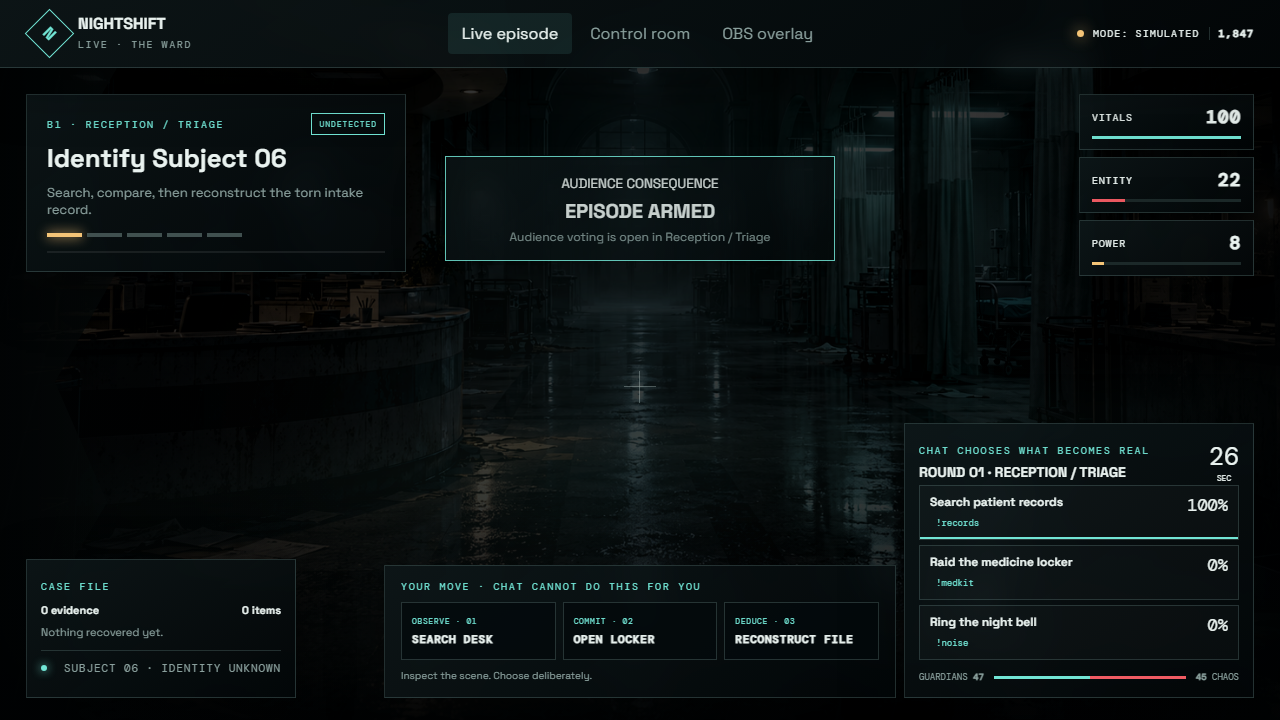
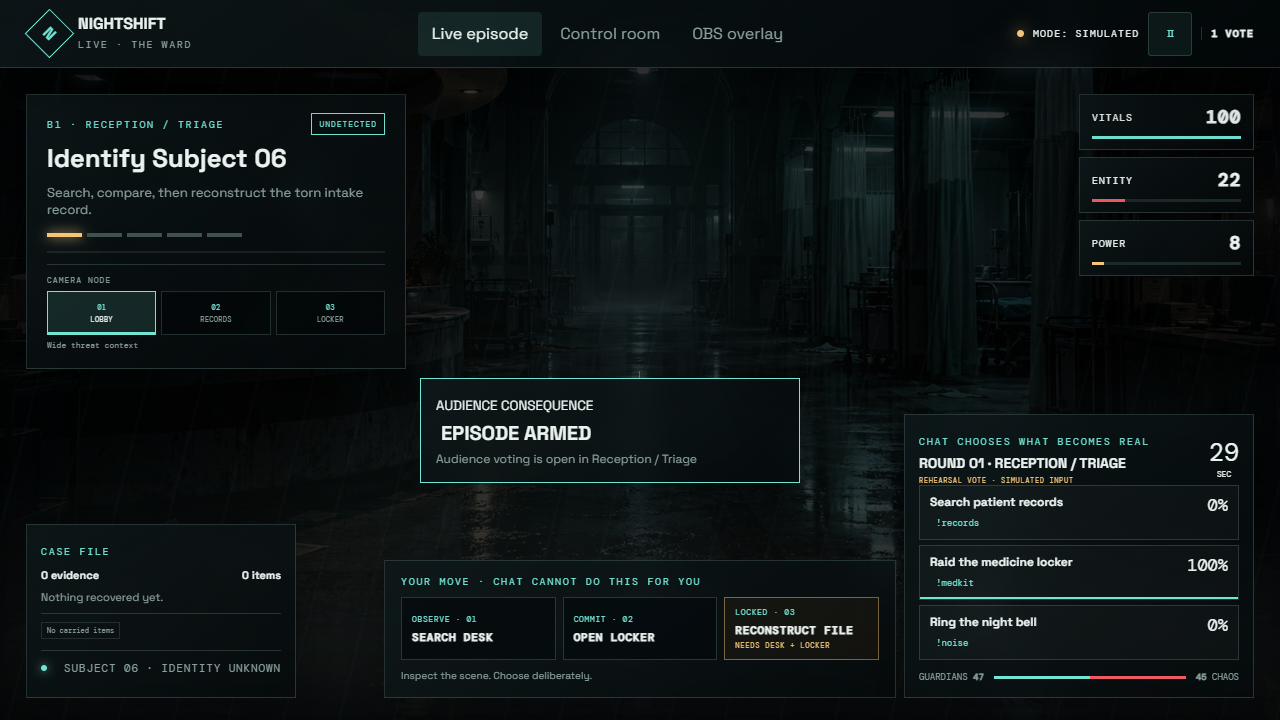
docs: refresh final release evidence

diff --git a/README.md b/README.md
@@ -17,6 +17,14 @@ NightShift Live turns a Twitch horror stream into a live game show. Viewers vote
 - Responsive safety/accessibility controls, modal focus handling, semantic state, pause shortcuts, reduced motion/flashes, and stable keyboard focus.
 - Automated engine, Twitch lifecycle, accessibility, audio, visual, and full-browser campaign gates.
 
+## Release captures
+
+| Warden threat beat | Persistent ending recap |
+| --- | --- |
+| ![The Warden approaches the isolation door while streamer actions and simulated rehearsal votes remain clearly separated.](docs/evidence/v3-warden-1280x720.png) | ![Episode ending recap showing route, evidence, truth, Warden state, audience count, and disclosed fallbacks.](docs/evidence/v3-ending-recap-1280x720.png) |
+| Full gameplay hierarchy | Streamer control room |
+| ![NightShift gameplay with mission, camera nodes, streamer-only actions, audience voting, and case file.](docs/evidence/v3-gameplay-1280x720.png) | ![NightShift streamer control room with signal, rehearsal, activity, accessibility, and show controls.](docs/evidence/v3-dashboard-1280x720.png) |
+
 ## Run in 30 seconds
 
 Requires Node.js 20+.
